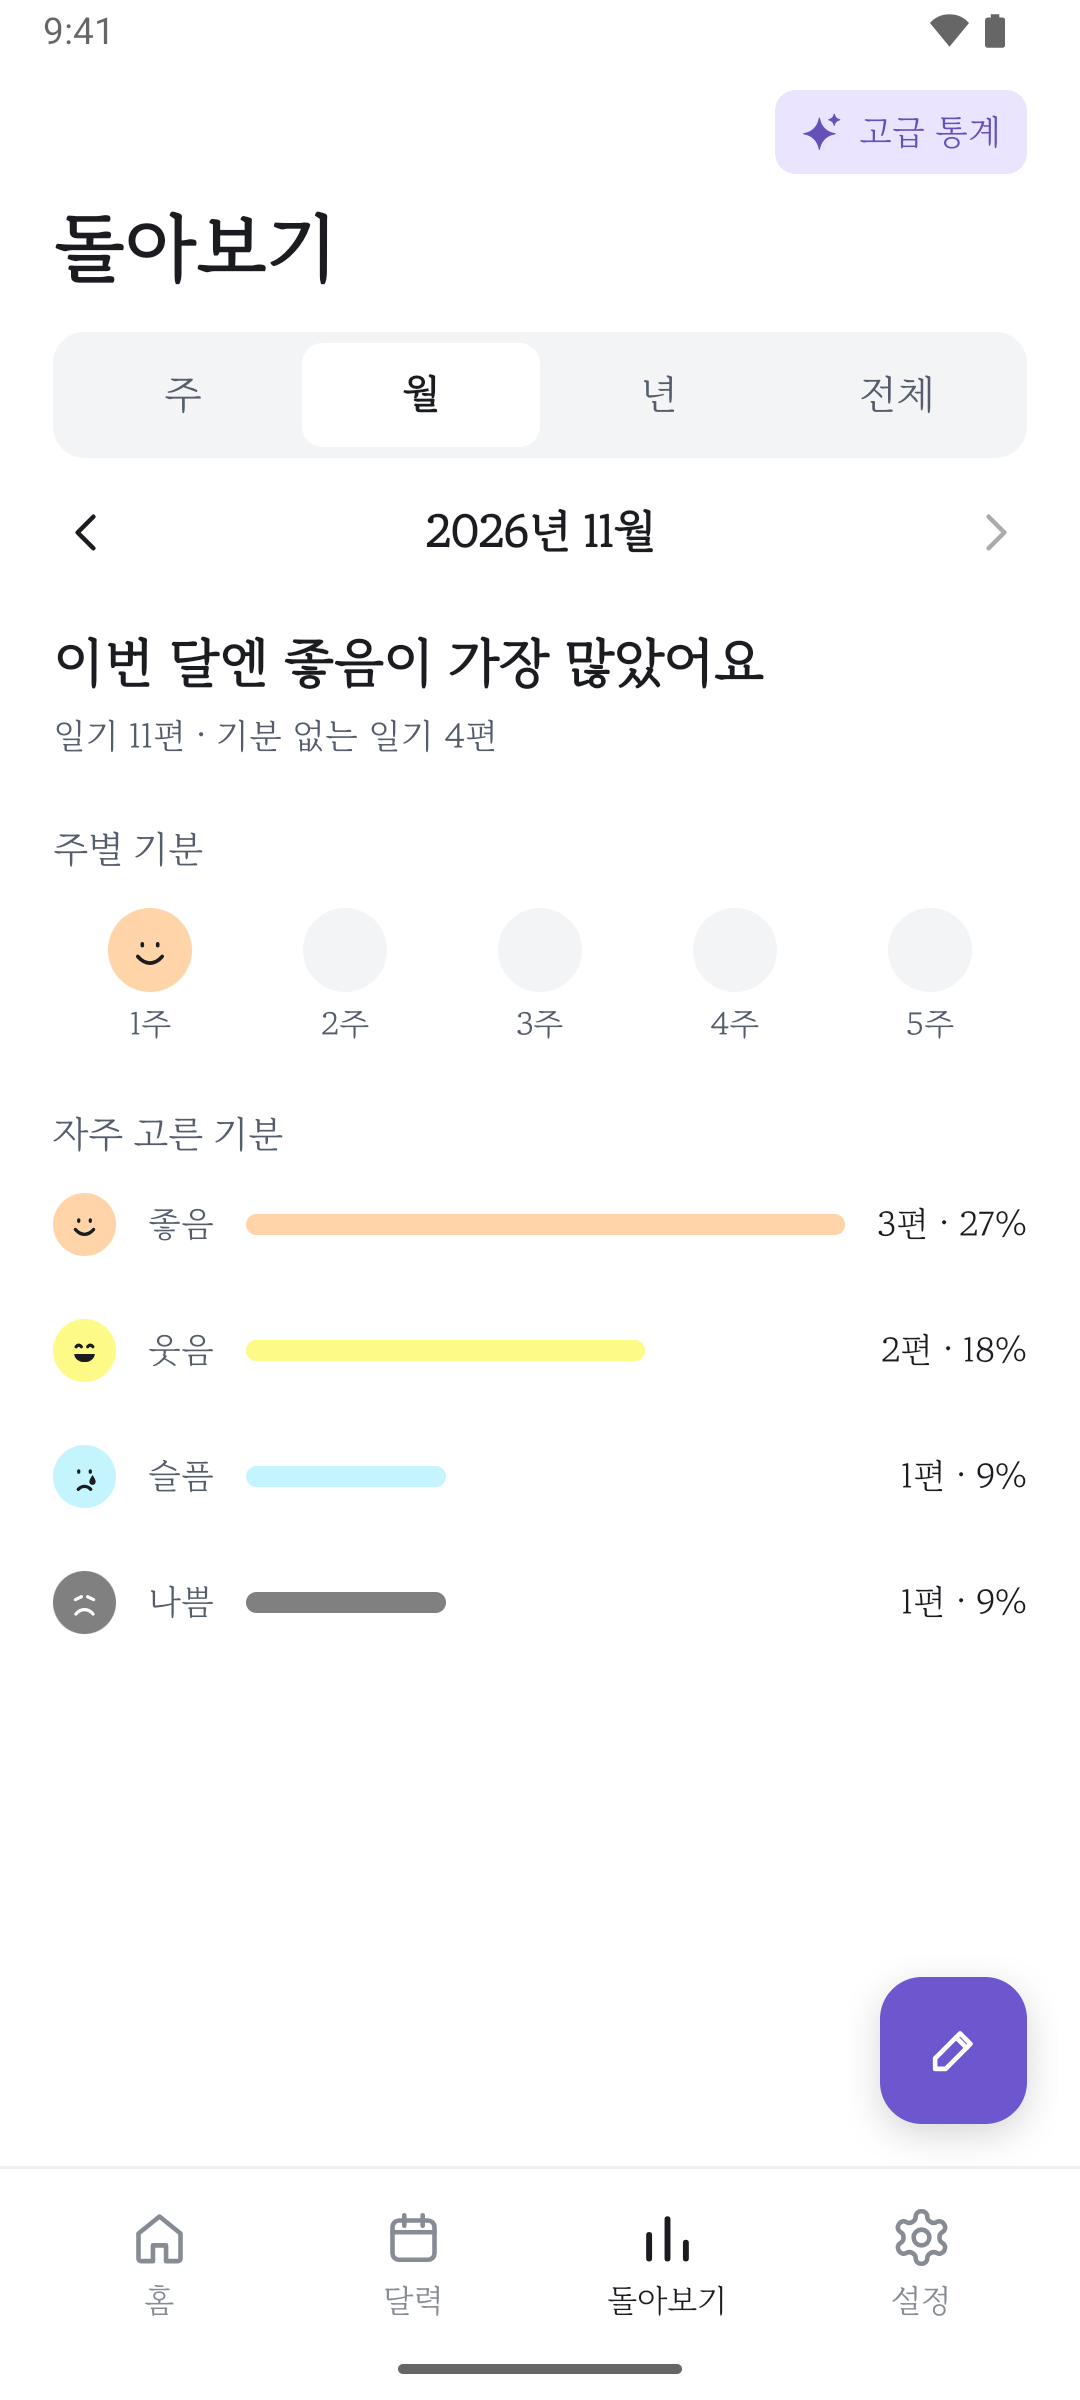
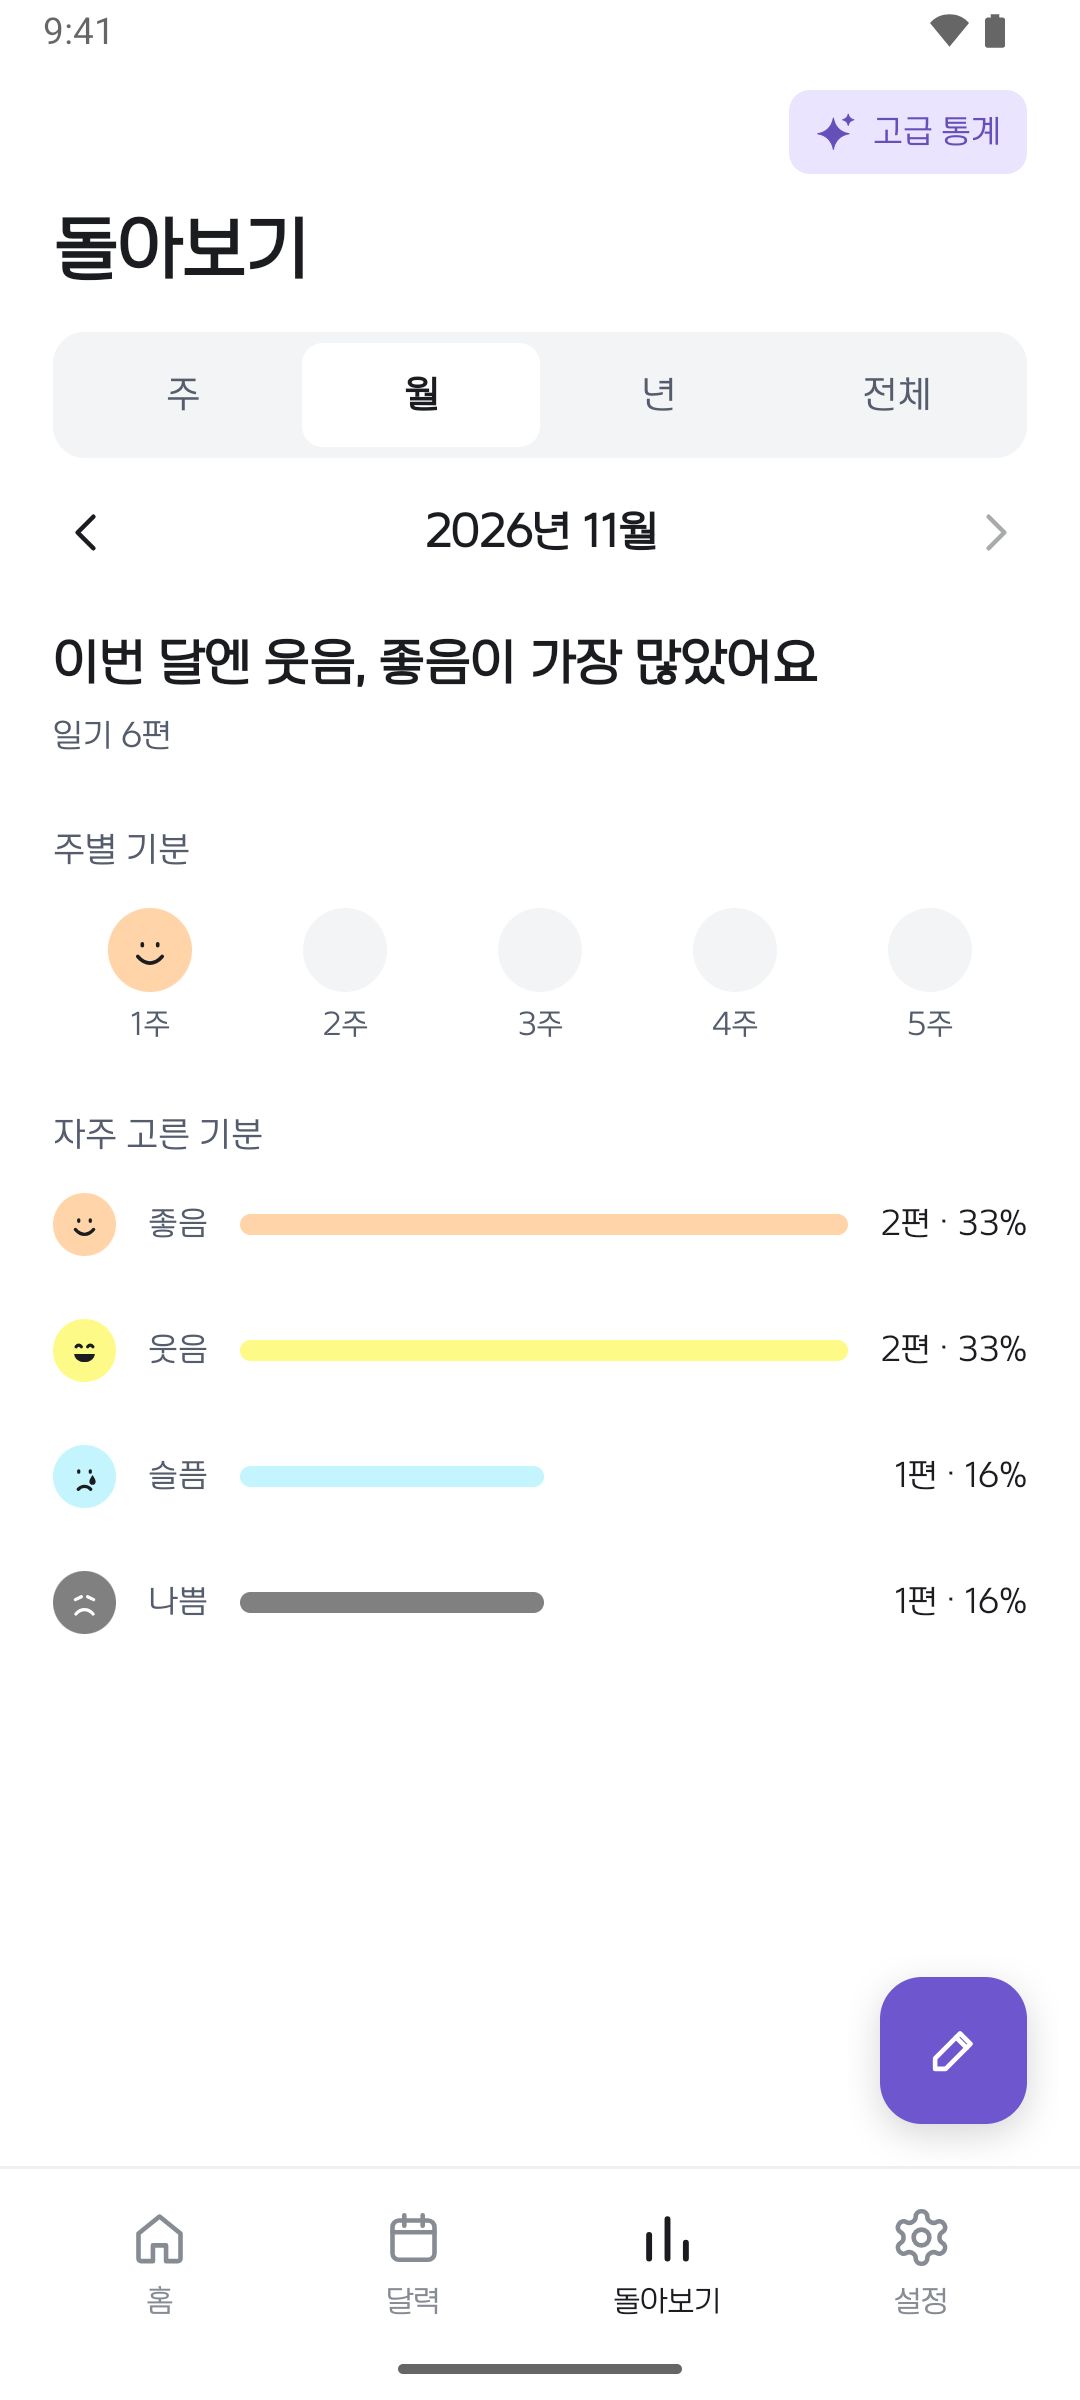
docs(release): 스토어 이미지를 창원단감둥근체로 다시 만들기
앱 화면이 다른 글꼴로 찍혀 있고 머리말과도 글꼴이 달랐다.
앱 글꼴을 창원단감둥근체로 고른 뒤 다섯 화면을 다시 찍고
머리말도 같은 글꼴로 맞췄다.

목록은 맨 위에서 찍고, 달력은 일기가 있는 날을 골라
기록이 함께 보이게 했다.

diff --git a/scripts/store/make_screens.swift b/scripts/store/make_screens.swift
@@ -7,7 +7,7 @@ import CoreText
 let args = CommandLine.arguments
 _ = NSApplication.shared
 let source = args[1], output = args[2], fonts = args[3]
-for name in ["pretendard_bold.otf", "pretendard_medium.otf"] {
+for name in ["changwon_round_regular.otf"] {
     CTFontManagerRegisterFontsForURL(URL(fileURLWithPath: "\(fonts)/\(name)") as CFURL, .process, nil)
 }
 
@@ -36,14 +36,20 @@ func canvas(_ width: Int, _ height: Int, _ draw: () -> Void) -> NSBitmapImageRep
     return NSBitmapImageRep(cgImage: context.makeImage()!)
 }
 
-func text(_ string: String, _ size: CGFloat, _ weight: String, _ tint: NSColor, _ rect: NSRect, _ align: NSTextAlignment, accented: String? = nil) {
+func text(_ string: String, _ size: CGFloat, _ tint: NSColor, _ rect: NSRect, _ align: NSTextAlignment, accented: String? = nil) {
     let style = NSMutableParagraphStyle()
     style.alignment = align
     style.lineHeightMultiple = 1.16
-    let font = NSFont(name: "Pretendard-\(weight)", size: size) ?? NSFont.boldSystemFont(ofSize: size)
-    let label = NSMutableAttributedString(string: string, attributes: [.font: font, .foregroundColor: tint, .paragraphStyle: style])
+    // 앱 화면과 같은 글꼴을 쓴다.
+    // 이 글꼴은 굵기가 하나뿐이라 윤곽선을 살짝 둘러 제목 무게를 낸다.
+    let font = NSFont(name: "ChangwonDangamRound-Regular", size: size) ?? NSFont.boldSystemFont(ofSize: size)
+    let label = NSMutableAttributedString(
+        string: string,
+        attributes: [.font: font, .foregroundColor: tint, .strokeColor: tint, .strokeWidth: -1.6, .paragraphStyle: style]
+    )
     if let accented, let range = string.range(of: accented) {
-        label.addAttribute(.foregroundColor, value: accent, range: NSRange(range, in: string))
+        let span = NSRange(range, in: string)
+        label.addAttributes([.foregroundColor: accent, .strokeColor: accent], range: span)
     }
     label.draw(in: rect)
 }
@@ -98,7 +104,7 @@ let slides: [(String, String, String)] = [
 ]
 for (index, (name, words, word)) in slides.enumerated() {
     let rep = canvas(1080, 1920) {
-        text(words, 88, "Bold", ink, NSRect(x: 40, y: 1500, width: 1000, height: 300), .center, accented: word)
+        text(words, 88, ink, NSRect(x: 40, y: 1500, width: 1000, height: 300), .center, accented: word)
         // 첫 장은 아래쪽 기분 시트까지 보이게 화면 전체를 넣는다.
         if name == "write" {
             phone(name, NSRect(x: 215, y: 40, width: 650, height: 1400), 56)
@@ -110,8 +116,8 @@ for (index, (name, words, word)) in slides.enumerated() {
 }
 
 let feature = canvas(1024, 500) {
-    text("바쁜 날에도\n일기를 남겨 봐요", 60, "Bold", ink, NSRect(x: 76, y: 176, width: 500, height: 170), .left, accented: "일기")
-    text("회원가입 없이, 사진까지 내 드라이브에", 25, "Medium", weak, NSRect(x: 76, y: 118, width: 500, height: 44), .left)
+    text("바쁜 날에도\n일기를 남겨 봐요", 60, ink, NSRect(x: 76, y: 176, width: 500, height: 170), .left, accented: "일기")
+    text("회원가입 없이, 사진까지 내 드라이브에", 25, weak, NSRect(x: 76, y: 118, width: 500, height: 44), .left)
     // 피처 그래픽에는 기기 틀을 넣지 않는다(Play 안내).
     phone("list", NSRect(x: 640, y: -640, width: 300, height: 1040), 26, bezel: false)
 }
